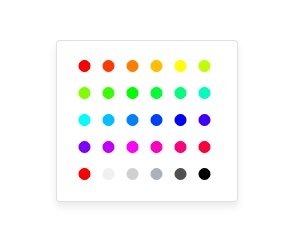
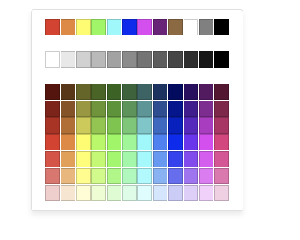
Update j-ColorPicker

diff --git a/j-ColorPicker/component.js b/j-ColorPicker/component.js
@@ -1,76 +1,121 @@
-COMPONENT('colorpicker', function(self) {
+COMPONENT('colorpicker', function(self, config) {
 
-	var container = null;
-	var template = '<li data-index="{0}"><i class="fa fa-circle" style="color:#{1}"></i></li>';
+	var cls = 'ui-colorpicker';
+	var cls2 = '.' + cls;
 	var is = false;
-	var opener = {};
-	var css = {};
-	var colors = 'ff0000,ff4000,ff8000,ffbf00,ffff00,bfff00,80ff00,40ff00,00ff00,00ff40,00ff80,00ffbf,00ffff,00bfff,0080ff,0040ff,0000ff,4000ff,8000ff,bf00ff,ff00ff,ff00bf,ff0080,ff0040,ff0000,F0F0F0,D0D0D0,AAB2BD,505050,000000'.split(',');
+	var events = {};
+	var colors = [['e73323', 'ec8632', 'fffd54', '7bfa4c', '7cfbfd', '041ef5', 'e73cf7', '73197b', '91683c', 'ffffff', '808080', '000000'],['ffffff', 'e8e8e8', 'd1d1d1', 'b9b9b9', 'a2a2a2', '8b8b8b', '747474', '5d5d5d', '464646', '2e2e2e', '171717', '000000'],['5c0e07', '5e350f', '66651c', '41641a', '2d6419', '2d6438', '2d6465', '133363', '000662', '2d0962', '5c1262', '5c0f32', '8a1a11', '8e501b', '99982f', '62962b', '47962a', '479654', '479798', '214d94', '010e93', '451393', '8a2094', '8a1c4c', 'b9261a', 'bd6b27', 'cccb41', '83c83c', '61c83b', '61c871', '62c9ca', '2e67c5', '0216c4', '5c1dc4', 'b92ec5', 'b92865', 'e73323', 'ec8632', 'fffd54', 'a4fb4e', '7bfa4c', '7bfa8d', '7cfbfd', '3b80f7', '041ef5', '7327f5', 'e73cf7', 'e7357f', 'e8483f', 'ef9d4b', 'fffe61', 'b4fb5c', '83fa5a', '83faa2', '83fbfd', '5599f8', '343cf5', '8c42f6', 'e84ff7', 'e84a97', 'ea706b', 'f2b573', 'fffe7e', 'c5fc7c', '96fa7a', '96fbb9', '96fcfd', '7bb2f9', '666af6', 'a76ef7', 'eb73f8', 'ea71b0', 'f6cecd', 'fae6cf', 'fffed1', 'ebfed1', 'd7fdd0', 'd7fde7', 'd8fefe', 'd1e5fd', 'cccdfb', 'e1cefb', 'f6cffc', 'f6cee4']];
 
 	self.singleton();
 	self.readonly();
 	self.blind();
-	self.nocompile && self.nocompile();
+	self.nocompile();
 
 	self.make = function() {
-		self.aclass('ui-colorpicker hidden');
-		self.append('<ul></ul>');
-		container = self.find('ul');
 
-		self.event('click', 'li', function() {
-			var color = '#' + colors[+this.getAttribute('data-index')];
-			opener.callback && opener.callback(color, opener.target);
+		var html = '';
+		for (var i = 0; i < colors.length; i++) {
+			for (var j = 0; j < colors[i].length; j++) {
+				html += '<span style="background-color: #{0}"></span>'.format(colors[i][j]);
+			}
+			if (i !== colors.length - 1)
+				html += '<br/><br/>';
+		}
+
+		self.html('<div class="{0}"><div class="{0}-body">{1}</div></div>'.format(cls, html));
+		self.aclass(cls + '-container hidden');
+
+		self.event('click', cls2 + '-body span', function() {
+			self.opt.callback($(this).attr('style').replace('background-color:', ''));
 			self.hide();
-			EMIT('colorpicker', color);
 		});
 
-		self.on('reflow', self.$hide);
-		self.on('resize', self.$hide);
+		events.click = function(e) {
+			var el = e.target;
+			var parent = self.dom;
+			do {
+				if (el == parent)
+					return;
+				el = el.parentNode;
+			} while (el);
+			self.hide();
+		};
 	};
 
-	self.$hide = function() {
-		is && self.hide();
-	};
-
-	self.render = function() {
-		var builder = [];
-		for (var i = 0, length = colors.length; i < length; i++)
-			builder.push(template.format(i, colors[i]));
-		container.empty().html(builder.join(''));
-	};
-
-	self.hide = function() {
-		if (is) {
-			self.aclass('hidden');
-			is = false;
+	self.bindevents = function() {
+		if (!events.is) {
+			events.is = true;
+			$(document).on('click', events.click);
 		}
 	};
 
-	self.show = function(x, y, target, callback) {
+	self.unbindevents = function() {
+		if (events.is) {
+			events.is = false;
+			$(document).off('click', events.click);
+		}
+	};
 
-		if (is && opener.x === x && opener.y === y) {
-			opener.x = null;
-			opener.y = null;
+	self.show = function(opt) {
+
+		var tmp = opt.element ? opt.element instanceof jQuery ? opt.element[0] : opt.element.element ? opt.element.dom : opt.element : null;
+
+		if (is && tmp && self.target === tmp) {
 			self.hide();
 			return;
 		}
 
-		if (typeof(target) === 'function') {
-			callback = target;
-			target = null;
+		self.target = tmp;
+		self.opt = opt;
+		var css = {};
+
+		if (is) {
+			css.left = 0;
+			css.top = 0;
+			self.element.css(css);
+		} else
+			self.rclass('hidden');
+
+		var target = $(opt.element);
+		var w = self.element.width();
+		var offset = target.offset();
+
+		if (opt.element) {
+			switch (opt.align) {
+				case 'center':
+					css.left = Math.ceil((offset.left - w / 2) + (target.innerWidth() / 2));
+					break;
+				case 'right':
+					css.left = (offset.left - w) + target.innerWidth();
+					break;
+				default:
+					css.left = offset.left;
+					break;
+			}
+
+			css.top = opt.position === 'bottom' ? (offset.top - self.element.height() - 10) : (offset.top + target.innerHeight() + 10);
+
+		} else {
+			css.left = opt.x;
+			css.top = opt.y;
 		}
 
-		opener.callback = callback;
-		opener.target = target;
-		opener.x = x;
-		opener.y = y;
+		if (opt.offsetX)
+			css.left += opt.offsetX;
 
-		!is && self.render();
+		if (opt.offsetY)
+			css.top += opt.offsetY;
+
 		is = true;
+		self.element.css(css);
+		setTimeout(self.bindevents, 50);
+	};
 
-		css.left = x;
-		css.top = y;
-
-		self.element.css(css).rclass('hidden');
+	self.hide = function() {
+		is = false;
+		self.target = null;
+		self.opt = null;
+		self.unbindevents();
+		self.aclass('hidden');
 	};
 });

diff --git a/j-ColorPicker/component.css b/j-ColorPicker/component.css
@@ -1,6 +1,5 @@
-.ui-colorpicker * { box-sizing: border-box; }
-.ui-colorpicker { border: 1px solid #E0E0E0; font-size: 14px; color: black; position: absolute; width: 180px; height: 165px; background-color: white; box-shadow: 0 5px 10px rgba(0,0,0,0.08); border-radius: 4px; z-index: 80; }
-.ui-colorpicker ul { list-style-type: none; margin: 0; padding: 10px 10px 0; text-align: center; }
-.ui-colorpicker li { position: relative; display: inline-block; width: 24px; height: 25px; text-align: center; margin-top: 2px; cursor: pointer; padding: 1px 0 0 0; border-radius: 3px; color: black; border: 2px solid white; }
-.ui-colorpicker li:hover { border-color: #E0E0E0; }
-.ui-colorpicker .hidden { display: none !important; }
+.ui-colorpicker-container { position: absolute; z-index: 109; }
+.ui-colorpicker { border: 1px solid #E0E0E0; font-size: 14px; color: black; width: 277px; z-index: 10; background-color: white; box-shadow: 0 5px 10px rgba(0,0,0,0.08); border-radius: 4px; z-index: 80; overflow: hidden; margin: 0; padding: 0; }
+.ui-colorpicker-body { padding: 10px 16px 13px 10px; margin: 0; text-align: right; }
+.ui-colorpicker-body span { cursor: pointer; width: 19px; height: 21px; display: inline-block; border: 1px solid rgba(0,0,0,0.2); margin: 2px; padding: 0; margin-bottom: -6px; margin-left: -1px; transition: transform .2s ease-in; }
+.ui-colorpicker-body span:hover { transform: scale(1.25); }

diff --git a/j-ColorPicker/example.html b/j-ColorPicker/example.html
@@ -1,9 +1,22 @@
-<div data-jc="colorpicker"></div>
+<div data---="colorpicker"></div>
+
+<div class="container">
+	<div class="row">
+		<div class="col-xs-4 col-xs-offset-4" style="text-align:center">
+			<a href="javascript:void(0)" style="color:black;font-size:30px"><i class="fasvd fa-eye-dropper"></i></a>
+		</div>
+	</div>
+</div>
 
 <script>
-	setTimeout(function() {
-		SETTER('colorpicker', 'show', 100, 100, function(color) {
-			console.log(color);
-		});
-	}, 500);
+	$(document).on('click', 'a', function() {
+		var opt = {};
+		opt.align = 'center';
+		opt.position = 'top';
+		opt.element = this;
+		opt.callback = function(color) {
+			alert(color);
+		};
+		SETTER('colorpicker', 'show', opt);
+	});
 </script>

diff --git a/j-ColorPicker/readme.md b/j-ColorPicker/readme.md
@@ -1,12 +1,32 @@
 ## j-ColorPicker
 
-A simple `ColorPicker` component. This component is __singleton__.
+- Component is __singleton__
+- Simple color picker
 
-__Methods__:
-- `component.show(x, y, [target], [callback(color, target)]` and it works as `toggle` when `x` and `y` are same as previous call
-- `component.hide()`
+## Usage
+
+```javascript
+var opt = {};
+
+// opt.offsetX {Number}    : adds X offset (default: 0)
+// opt.offsetY {Number}    : adds Y offset (default: 0)
+// opt.align {String}      : align `left` (default), `center` or `right`
+// opt.position {String}   : position `top` (default) or `bottom`
+
+opt.element = YOUR_ELEMENT;
+// or if you want to use a fixed position:
+// opt.x {Number}          : `x` position
+// opt.y {Number}          : `y` position
+
+opt.callback = function(color) {
+	console.log(color); // callback parameter has string with HEX color (like #bada55)
+};
+
+SETTER('colorpicker', 'show', opt);
+```
+
 
 ### Author
 
-- Peter Širka <petersirka@gmail.com>
+- Denis Granec <denis@granec.cz>
 - License: MIT
